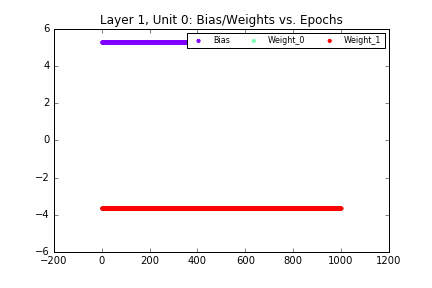
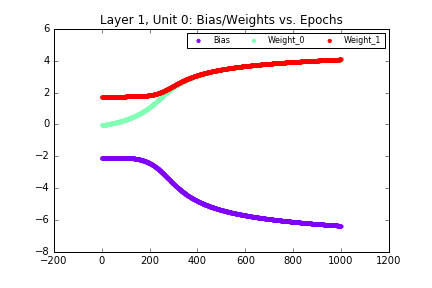
successgit add .

diff --git a/assingment5/network.py b/assingment5/network.py
@@ -1,6 +1,9 @@
 import random
 import numpy as np
 
+from copy import deepcopy
+from collections import OrderedDict
+
 # basic class for fully-connected neural network
 class Network(object):
 
@@ -47,12 +50,17 @@ class Network(object):
     def train(self, training_data, nEpochs, learning_rate):
         n = len(training_data)
 
-        epoch_weights = []
-        epoch_biases = []
+        epoch_weights = OrderedDict()
+        epoch_biases = OrderedDict()
         epoch_costs = []
         for epoch in range(nEpochs):
-            epoch_weights.append(self.weights)
-            epoch_biases.append(self.biases)
+            # print self.weights
+            # print self.biases
+            epoch_weights.update({epoch : deepcopy(self.weights)})
+            epoch_biases.update({epoch : deepcopy(self.biases)})
+            # for i in range(epoch+1):
+                # print epoch_weights[i]
+                # print epoch_biases[i]
 
             random.shuffle(training_data)
 
@@ -62,7 +70,13 @@ class Network(object):
 
             epoch_costs.append(self.cost)
 
-            #print('Epoch %d finished training' % epoch)
+            # print('Epoch %d finished training' % epoch)
+
+        '''
+        for e_b in epoch_biases:
+            for layer_b in e_b:
+                print layer_b
+        '''
 
         return epoch_weights, epoch_biases, epoch_costs
 
@@ -71,6 +85,7 @@ class Network(object):
     # gradient descent update rule
     def update_step(self, training_data, learning_rate):
         n = len(training_data)
+        # print self.topology
 
         # partials of cost w.r.t weights and biases for each layer
         delta_w = [np.zeros(layer_w.shape) for layer_w in self.weights]
@@ -79,11 +94,22 @@ class Network(object):
             # partials of cost w.r.t weights and biases for each instance
             dw, db = self.backprop(x, label)
             for l in range(self.nLayers):
+                # print 'layer %d' % l
+                # print delta_w[l]
+                # print dw[l]
                 delta_w[l] += dw[l]
+                # print delta_b[l]
+                # print db[l]
                 delta_b[l] += db[l]
 
         # gradient descent
         for l in range(1,self.nLayers):
+
+            # print 'weights in layer %d' % l
+            # print self.weights[l]
+            # print 'biases in layer %d' % l
+            # print self.biases[l]
+
             self.weights[l] -= learning_rate * delta_w[l] / float(n)
             self.biases[l] -= learning_rate * delta_b[l] / float(n)
 

diff --git a/assingment5/driver.py b/assingment5/driver.py
@@ -33,16 +33,16 @@ def main():
     XOR_training = [(x,np.array([y[3]])) for x,y in training_set]
 
     name = 'XOR_%d-%d-%d' % tuple(XOR_topology)
-    experiment(XOR_topology, XOR_training, name)
+    # experiment(XOR_topology, XOR_training, name)
 
     for nUnits_1 in range(1,5):
         for nUnits_2 in range(5):
             if nUnits_2 == 0:
                 topology = [n,nUnits_1,4]
                 name = 'multi_%d-%d-%d' % tuple(topology)
-
-            topology = [n,nUnits_1,nUnits_2,4]
-            name = 'multi_%d-%d-%d-%d' % tuple(topology)
+            else:
+                topology = [n,nUnits_1,nUnits_2,4]
+                name = 'multi_%d-%d-%d-%d' % tuple(topology)
 
             experiment(topology,training_set,name)
 
@@ -90,8 +90,8 @@ def create_plots(results,name):
         nUnits = len(epoch_weights[0][l])
         for j in range(nUnits):
             # weights and biases for jth unit in layer l over all epochs
-            ep_weights = [w[l][j] for w in epoch_weights]
-            ep_biases = [b[l][j] for b in epoch_biases]
+            ep_weights = [w[l][j] for w in epoch_weights.values()]
+            ep_biases = [b[l][j] for b in epoch_biases.values()]
 
             nWeights = len(ep_weights[0])
             ys = [ep_biases]
